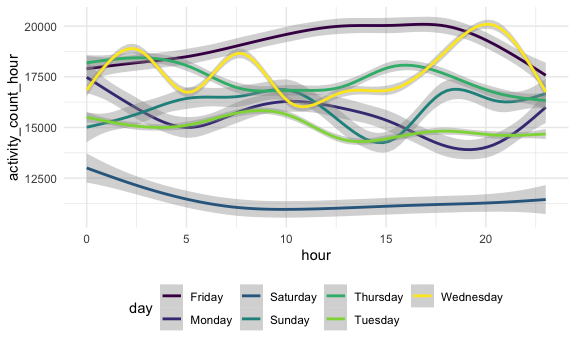
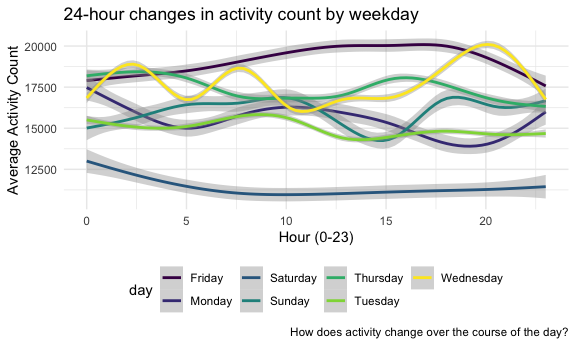
final commit

diff --git a/p8105_hw3_rht2112.md b/p8105_hw3_rht2112.md
@@ -6,19 +6,20 @@ Rachel Tao
 library(tidyverse)
 ```
 
-    ## ── Attaching packages ──────────────────────────────────────────────────────────────── tidyverse 1.3.0 ──
+    ## ── Attaching packages ───────────────────────────────────────────────────────────────── tidyverse 1.3.0 ──
 
     ## ✓ ggplot2 3.3.2     ✓ purrr   0.3.4
     ## ✓ tibble  3.0.3     ✓ dplyr   1.0.2
     ## ✓ tidyr   1.1.2     ✓ stringr 1.4.0
     ## ✓ readr   1.3.1     ✓ forcats 0.5.0
 
-    ## ── Conflicts ─────────────────────────────────────────────────────────────────── tidyverse_conflicts() ──
+    ## ── Conflicts ──────────────────────────────────────────────────────────────────── tidyverse_conflicts() ──
     ## x dplyr::filter() masks stats::filter()
     ## x dplyr::lag()    masks stats::lag()
 
 ``` r
 library(p8105.datasets)
+library(patchwork)
 
 knitr::opts_chunk$set(
   fig.width = 6,
@@ -185,7 +186,19 @@ accel <-
   select(-weekday)
 ```
 
-Describe the dataset above.
+The accel dataset has accelerometer data collected on a 63 year-old male
+with BMI 25, who was admitted to the Advanced Cardiac CareCenter of
+CUIMC, and diagnosed with congestive heart failure. The original dataset
+showed activity counts for each minute of the day, as measured by the
+accelerometer. The cleaned dataset has 50400 rows and 7 columns, and
+variables include day\_id, week, day, day\_type, hour, min, and
+activity\_count. ‘day\_id’ is a unique identifier for each day in the
+dataset. ‘week’ shows the week of observation, from weeks 1-5. ‘day’
+indicates the day of the week of the observation (Mon-Sun), and
+‘day\_type’ indicates if the day was a weekday or a weekend. ‘hour’
+includes the hour of the 24-hour day (0-23), and ‘min’ is the minute of
+the day (1-1440). ‘activity\_count’ is the activity count measured by
+the accelerometer for each minute of the day.
 
 Aggregate minutes to days
 
@@ -193,7 +206,7 @@ Aggregate minutes to days
 accel %>% 
   group_by(week, day) %>% 
   summarize(activity_count_day = sum(activity_count)) %>% 
-  arrange(week, day) %>% 
+  arrange(activity_count_day) %>% 
   knitr::kable(digits = 1)
 ```
 
@@ -201,50 +214,54 @@ accel %>%
 
 | week | day       | activity\_count\_day |
 | :--- | :-------- | -------------------: |
-| 1    | Friday    |             480542.6 |
-| 1    | Monday    |              78828.1 |
-| 1    | Saturday  |             376254.0 |
-| 1    | Sunday    |             631105.0 |
-| 1    | Thursday  |             355923.6 |
-| 1    | Tuesday   |             307094.2 |
-| 1    | Wednesday |             340115.0 |
-| 2    | Friday    |             568839.0 |
-| 2    | Monday    |             295431.0 |
-| 2    | Saturday  |             607175.0 |
-| 2    | Sunday    |             422018.0 |
-| 2    | Thursday  |             474048.0 |
-| 2    | Tuesday   |             423245.0 |
-| 2    | Wednesday |             440962.0 |
-| 3    | Friday    |             467420.0 |
-| 3    | Monday    |             685910.0 |
-| 3    | Saturday  |             382928.0 |
-| 3    | Sunday    |             467052.0 |
-| 3    | Thursday  |             371230.0 |
-| 3    | Tuesday   |             381507.0 |
-| 3    | Wednesday |             468869.0 |
-| 4    | Friday    |             154049.0 |
-| 4    | Monday    |             409450.0 |
 | 4    | Saturday  |               1440.0 |
-| 4    | Sunday    |             260617.0 |
-| 4    | Thursday  |             340291.0 |
-| 4    | Tuesday   |             319568.0 |
-| 4    | Wednesday |             434460.0 |
-| 5    | Friday    |             620860.0 |
-| 5    | Monday    |             389080.0 |
 | 5    | Saturday  |               1440.0 |
+| 1    | Monday    |              78828.1 |
 | 5    | Sunday    |             138421.0 |
-| 5    | Thursday  |             549658.0 |
+| 4    | Friday    |             154049.0 |
+| 4    | Sunday    |             260617.0 |
+| 2    | Monday    |             295431.0 |
+| 1    | Tuesday   |             307094.2 |
+| 4    | Tuesday   |             319568.0 |
+| 1    | Wednesday |             340115.0 |
+| 4    | Thursday  |             340291.0 |
+| 1    | Thursday  |             355923.6 |
 | 5    | Tuesday   |             367824.0 |
+| 3    | Thursday  |             371230.0 |
+| 1    | Saturday  |             376254.0 |
+| 3    | Tuesday   |             381507.0 |
+| 3    | Saturday  |             382928.0 |
+| 5    | Monday    |             389080.0 |
+| 4    | Monday    |             409450.0 |
+| 2    | Sunday    |             422018.0 |
+| 2    | Tuesday   |             423245.0 |
+| 4    | Wednesday |             434460.0 |
+| 2    | Wednesday |             440962.0 |
 | 5    | Wednesday |             445366.0 |
+| 3    | Sunday    |             467052.0 |
+| 3    | Friday    |             467420.0 |
+| 3    | Wednesday |             468869.0 |
+| 2    | Thursday  |             474048.0 |
+| 1    | Friday    |             480542.6 |
+| 5    | Thursday  |             549658.0 |
+| 2    | Friday    |             568839.0 |
+| 2    | Saturday  |             607175.0 |
+| 5    | Friday    |             620860.0 |
+| 1    | Sunday    |             631105.0 |
+| 3    | Monday    |             685910.0 |
 
-``` r
-#why isn't this table in correct weekday order?
-```
-
-Trends?
+I can see some interesting trends by ordering the table summarizing
+activity count by day by activity count. NSome notable outliers are
+Saturday of weeks 4 and 5, where the activity count was only 1440. Since
+there are 1440 minutes in a day, and it seems the lowest value of of
+activity\_count per minute, this could be of some concern, as it
+indicates extremely low activity. One plausible explanation could be
+accelerometer malfunction - perhaps it was not properly reading the
+patient’s activity on those days, or was disconnected somehow. Fridays
+seem to be relatively high-activity days.
 
 Create a plot showing how activity count changes over the course of the
-dayfor each day of the week.
+day for each day of the week.
 
 ``` r
 accel %>% 
@@ -254,17 +271,26 @@ accel %>%
       sum(activity_count)
   ) %>% 
   ggplot(aes(x = hour, y = activity_count_hour, color = day)) +
-  geom_smooth()
+  geom_smooth() +
+  labs(
+    title = "24-hour changes in activity count by weekday",
+    x = "Hour (0-23)",
+    y = "Average Activity Count",
+    caption = "How does activity change over the course of the day?"
+  ) 
 ```
 
     ## `geom_smooth()` using method = 'gam' and formula 'y ~ s(x, bs = "cs")'
 
 <img src="p8105_hw3_rht2112_files/figure-gfm/unnamed-chunk-8-1.png" width="90%" />
 
-``` r
-#why are the weekdays in a weird order still?
-#format labels to be a little nicer
-```
+From this plot it looks like Saturdays have the lowest average activity
+counts, and Fridays have the highest, overall. On Saturdays there is a
+slope downward from midnight to 5am, and a plateau after around 7am. On
+Fridays there is a steady increase in activity from midnight to 10am, a
+plateau from 10am to 5pm, and a decrease in activity from 5pm to
+midnight. For all other days of the week, activity is variable throught
+the day, with the greatest amplitude in variability on Wednesdays.
 
 # Problem 3
 
@@ -273,8 +299,8 @@ data("ny_noaa")
 ```
 
 ``` r
-ny_noaa %>% 
-  separate(date, into = c("year", "month", "day"), sep = ) %>% 
+ny_noaa <- 
+  separate(ny_noaa, date, into = c("year", "month", "day"), sep = ) %>% 
   mutate(
     year =
       as.numeric(year),
@@ -283,34 +309,31 @@ ny_noaa %>%
     day = 
       as.numeric(day),
     prcp =
-      10*prcp,
+      0.001*prcp,
     tmax =
-      10*(as.numeric(tmax)),
+      0.1*(as.numeric(tmax)),
     tmin =
-      10*(as.numeric(tmin))
+      0.1*(as.numeric(tmin)),
+    snow =
+      0.01*(snow),
+    snwd = 
+      0.01*(snwd)
   )
 ```
 
-    ## # A tibble: 2,595,176 x 9
-    ##    id           year month   day  prcp  snow  snwd  tmax  tmin
-    ##    <chr>       <dbl> <dbl> <dbl> <dbl> <int> <int> <dbl> <dbl>
-    ##  1 US1NYAB0001  2007    11     1    NA    NA    NA    NA    NA
-    ##  2 US1NYAB0001  2007    11     2    NA    NA    NA    NA    NA
-    ##  3 US1NYAB0001  2007    11     3    NA    NA    NA    NA    NA
-    ##  4 US1NYAB0001  2007    11     4    NA    NA    NA    NA    NA
-    ##  5 US1NYAB0001  2007    11     5    NA    NA    NA    NA    NA
-    ##  6 US1NYAB0001  2007    11     6    NA    NA    NA    NA    NA
-    ##  7 US1NYAB0001  2007    11     7    NA    NA    NA    NA    NA
-    ##  8 US1NYAB0001  2007    11     8    NA    NA    NA    NA    NA
-    ##  9 US1NYAB0001  2007    11     9    NA    NA    NA    NA    NA
-    ## 10 US1NYAB0001  2007    11    10    NA    NA    NA    NA    NA
-    ## # … with 2,595,166 more rows
+This dataset has climate information from all NY state weather stations
+from January 1, 1981 through December 31, 2010. The ny\_noaa dataset has
+2595176 rows and 9 columns. The column names in the dataset include
+‘id’, ‘year’, ‘month’, ‘day’, ‘prcp’, ‘snow’, ‘snwd’, ‘tmax’, and
+‘tmin’. ‘id’ includes the id number of the weather station. ‘year’,
+‘month’, and ‘day’, all show the date informaton for each observation.
+‘prcp’ is the daily precipitation in cm. ‘snow’ is the daily snowfall in
+cm. ‘snwd’ is the daily snow depth in cm. ‘tmax’ is the daily maximum
+temperature in ªC and ‘tmin’ is the daily minimum temperature in °C.
+There are many missing values because each weather station may only
+collect a subset of the variables included in the full dataset.
 
-``` r
-#how best to assess missingness?
-```
-
-Snow
+What are the most commonly observed values for snowfall?
 
 ``` r
 ny_noaa %>% 
@@ -320,18 +343,113 @@ ny_noaa %>%
 
     ## # A tibble: 282 x 2
     ##     snow       n
-    ##    <int>   <int>
-    ##  1     0 2008508
-    ##  2    NA  381221
-    ##  3    25   31022
-    ##  4    13   23095
-    ##  5    51   18274
-    ##  6    76   10173
-    ##  7     8    9962
-    ##  8     5    9748
-    ##  9    38    9197
-    ## 10     3    8790
+    ##    <dbl>   <int>
+    ##  1  0    2008508
+    ##  2 NA     381221
+    ##  3  0.25   31022
+    ##  4  0.13   23095
+    ##  5  0.51   18274
+    ##  6  0.76   10173
+    ##  7  0.08    9962
+    ##  8  0.05    9748
+    ##  9  0.38    9197
+    ## 10  0.03    8790
     ## # … with 272 more rows
 
-The most commonly observed values are 0 and NA. This is because for most
-days of the year, there is not snow.
+The most commonly observed values are 0 and NA. It makes sense that the
+most common value is 0, because for most days of the year, there is not
+snow. It also makes sense that the second most common value is ‘NA’
+because, as stated above, there is a fair amount of missingness in this
+dataset due to differences in which weather variables each weather
+station collects data on.
+
+Make a two-panel plot of the average max temp in July and January in
+each station across years.
+
+``` r
+jan <- 
+  ny_noaa %>% 
+  filter(month == 1) %>% 
+  group_by(id, year, month) %>% 
+  summarize(mean_tmax = mean(tmax, na.rm = TRUE)) %>% 
+  ggplot(aes(x = year, y = mean_tmax, group = id, color = id)) +
+  geom_point() +
+  theme(legend.position = "none") +
+  ylim(-15, 35) +
+  labs(
+    title = "January",
+    x = "Year",
+    y = "Mean Maximum Temperature (°C)"
+  ) 
+```
+
+    ## `summarise()` regrouping output by 'id', 'year' (override with `.groups` argument)
+
+``` r
+july <- 
+  ny_noaa %>% 
+  filter(month == 7) %>% 
+  group_by(id, year, month) %>% 
+  summarize(mean_tmax = mean(tmax, na.rm = TRUE)) %>% 
+  ggplot(aes(x = year, y = mean_tmax, group = id, color = id)) +
+  geom_point() +
+  theme(legend.position = "none") +
+  ylim(-15, 35) +
+  labs(
+    title = "July",
+    x = "Year",
+    y = "Mean Maximum Temperature (°C)",
+    caption = "Mean max temp from 1981-2010 from individual weather stations in NYS"
+    ) 
+```
+
+    ## `summarise()` regrouping output by 'id', 'year' (override with `.groups` argument)
+
+``` r
+jan + july
+```
+
+    ## Warning: Removed 2923 rows containing missing values (geom_point).
+
+    ## Warning: Removed 3047 rows containing missing values (geom_point).
+
+<img src="p8105_hw3_rht2112_files/figure-gfm/unnamed-chunk-12-1.png" width="90%" />
+
+The mean max temp appears more variable in January than in July. There
+do appear to be certain years that have colder winters than others, and
+certain years that have warmer summers than others, overall (each year
+seems to have its own distribution of mean max daily temperatures). In
+January in the early 1980’s there are a couple low outliers. There is
+also one low outlier in July in the late 1980’s, which appears to show a
+mean maximum temperature of around 14°C, when the majority of the
+weather stations have mean maximum temperatures between 29 and 32°C.
+
+Make a two-panel plot of tmax vs. tmn for the full dataset.
+
+``` r
+tmin_tmax_p <- 
+  ny_noaa %>% 
+  ggplot(aes(x = tmin, y = tmax, na.rm = TRUE)) +
+  geom_hex() +
+  theme(legend.position = "right") +
+  labs(
+    x = "Minimum daily temperature (°C)",
+    y = "Maximum Daily Temperature (°C)"
+  ) 
+
+snow_dist_p <- 
+  ny_noaa %>% 
+  ggplot(aes(x = snow)) +
+  geom_density() +
+  ylim(0,100) +
+  facet_grid(.~year,) +
+  facet_wrap(vars(year))
+
+tmin_tmax_p + snow_dist_p
+```
+
+    ## Warning: Removed 1136276 rows containing non-finite values (stat_binhex).
+
+    ## Warning: Removed 381221 rows containing non-finite values (stat_density).
+
+<img src="p8105_hw3_rht2112_files/figure-gfm/unnamed-chunk-13-1.png" width="90%" />
